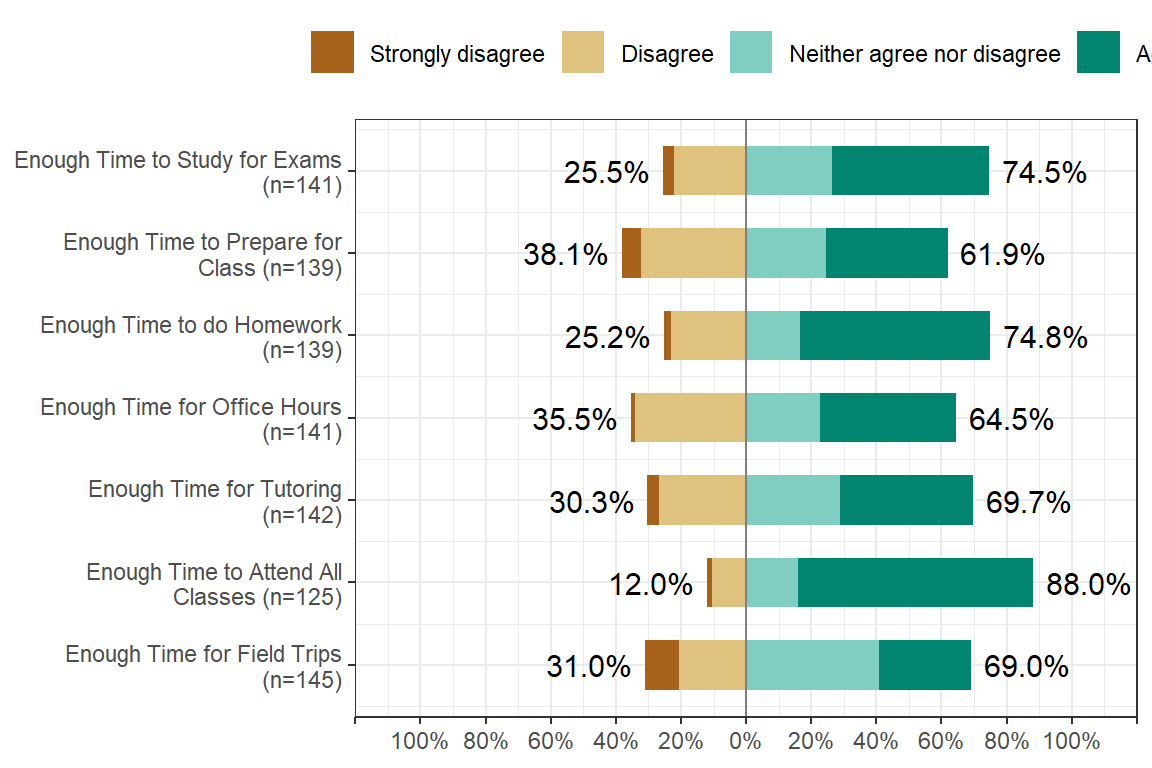
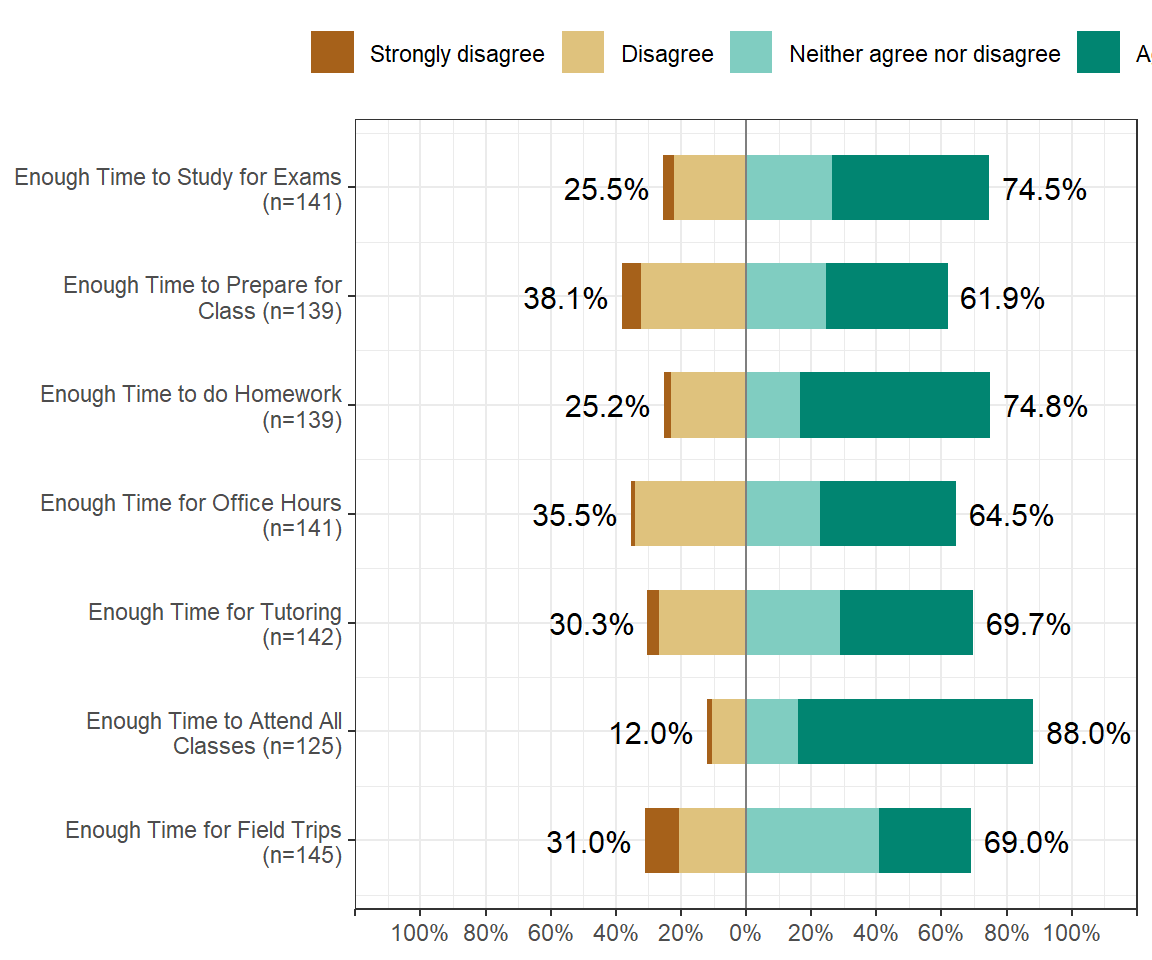
Commit

diff --git a/health.html b/health.html
@@ -327,7 +327,7 @@ div.tocify {
     <div id="navbar" class="navbar-collapse collapse">
       <ul class="nav navbar-nav">
         <li>
-  <a href="index.html">Home</a>
+  <a href="index.html">Overview</a>
 </li>
 <li>
   <a href="demographics.html">Demographics</a>
@@ -538,7 +538,7 @@ Other
 <p><img src="health_files/figure-html/unnamed-chunk-20-1.png" width="576" style="display: block; margin: auto;" /></p>
 <p>Over half of respondents, or 58%, reported that they, or the other adults in their household, cut the size of their meals, or skipped meals, because there was not enough money for food.</p>
 <ul>
-<li><strong>How often did this happen—almost every month, some months but not every month, or in only 1 or 2 months?</strong></li>
+<li><em>How often did this happen—almost every month, some months but not every month, or in only 1 or 2 months?</em></li>
 </ul>
 <p><img src="health_files/figure-html/unnamed-chunk-21-1.png" width="576" style="display: block; margin: auto;" /></p>
 <p>Of the respondents that answered yes to cutting the size of their meals, or skipping meals, over half (54.5%) said this happened some months but not every month. 27.3% reported this happened almost every month.</p>
@@ -548,7 +548,7 @@ Other
 <p><img src="health_files/figure-html/unnamed-chunk-22-1.png" width="576" style="display: block; margin: auto;" /></p>
 <p>The majority of respondents, or 61.8%, reported eating less then they felt they should over the last 12 months because there was not enough money for food.</p>
 <ul>
-<li><strong>How often did this happen—almost every month, some months but not every month, or in only 1 or 2 months?</strong></li>
+<li><em>How often did this happen—almost every month, some months but not every month, or in only 1 or 2 months?</em></li>
 </ul>
 <p><img src="health_files/figure-html/unnamed-chunk-23-1.png" width="576" style="display: block; margin: auto;" /></p>
 <p>Of those that responded yes that they ate less because there was not enough money for food, about half (50.6%) reported this happened some months but not every month. 24.7% of respondents reported this happened almost every month.</p>
@@ -558,7 +558,7 @@ Other
 <p><img src="health_files/figure-html/unnamed-chunk-24-1.png" width="576" style="display: block; margin: auto;" /></p>
 <p>Over half of respondents, or 54.5%, reported that there were times they were hungry but did not eat because there wasn’t enough money for food.</p>
 <ul>
-<li><strong>How often did this happen—almost every month, some months but not every month, or in only 1 or 2 months?</strong></li>
+<li><em>How often did this happen—almost every month, some months but not every month, or in only 1 or 2 months?</em></li>
 </ul>
 <p><img src="health_files/figure-html/unnamed-chunk-25-1.png" width="576" style="display: block; margin: auto;" /></p>
 <p>Of those that responded yes they were hungry but did not eat because lack of money for food, more than half, or 55.3%, reported this happened some months but not every month. 22.4% of respondents reported this happened almost every month.</p>
@@ -572,7 +572,7 @@ Other
 <p><img src="health_files/figure-html/unnamed-chunk-27-1.png" width="576" style="display: block; margin: auto;" /></p>
 <p>Most respondents (74.8%) reported that none of the adults in their household ever went a whole day without eating because there wasn’t enough money for food.</p>
 <ul>
-<li><strong>How often did this happen—almost every month, some months but not every month, or in only 1 or 2 months?</strong></li>
+<li><em>How often did this happen—almost every month, some months but not every month, or in only 1 or 2 months?</em></li>
 </ul>
 <p><img src="health_files/figure-html/unnamed-chunk-28-1.png" width="576" style="display: block; margin: auto;" /></p>
 <p>Out of the 34 respondents that answered yes, either they or their adult household member went a whole day without eating because there wasn’t enough money for food, over half (51.6%) reported this happened some months but not every month. 22.6% reported this happened every month.</p>
@@ -581,7 +581,7 @@ Other
 <h2>Food Insecure</h2>
 <p>Food insecurity is defined by meeting 2 or more of the following criteria:</p>
 <p>*Selecting sometimes true or often true for not having enough food or money to last and not being able to afford balanced meals.</p>
-<p>*Selecting yes for any of the 9 prior questions.</p>
+<p>*Selecting yes for any of the 5 prior bulleted, bold questions.</p>
 <p><img src="health_files/figure-html/unnamed-chunk-29-1.png" width="576" style="display: block; margin: auto;" /></p>
 <p>The majority of respondents, or 65.3%, reported that yes, they were food insecure in the last 12 months. 34.7% reported that no, they were not food insecure.</p>
 </div>

diff --git a/index.html b/index.html
@@ -256,7 +256,7 @@ $(document).ready(function () {
     <div id="navbar" class="navbar-collapse collapse">
       <ul class="nav navbar-nav">
         <li>
-  <a href="index.html">Home</a>
+  <a href="index.html">Overview</a>
 </li>
 <li>
   <a href="demographics.html">Demographics</a>
@@ -322,8 +322,10 @@ $(document).ready(function () {
 <h3>Contact</h3>
 <p>Questions about the survey or data analysis presented in this report can be directed to:</p>
 <ul>
-<li><h5 id="stephanie-bianco"><a href="https://www.csuchico.edu/chc/about/staff/stephanie-bianco.shtml">Stephanie Bianco</a></h5>
-Email: <a href="mailto:sbianco@csuchico.edu" class="email">sbianco@csuchico.edu</a></li>
+<li><h5 id="stephanie-bianco-chc-director-pi"><a href="https://www.csuchico.edu/chc/about/staff/stephanie-bianco.shtml">Stephanie Bianco</a>, CHC Director, PI</h5>
+<p>Email: <a href="mailto:sbianco@csuchico.edu" class="email">sbianco@csuchico.edu</a></p></li>
+<li><h5 id="robin-donatello-data-manager"><a href="https://norcalbiostat.netlify.app/">Robin Donatello</a>, Data Manager</h5>
+<p>Email: <a href="mailto:rdonatello@csuchico.edu" class="email">rdonatello@csuchico.edu</a></p></li>
 </ul>
 <hr />
 </div>

diff --git a/workload.html b/workload.html
@@ -256,7 +256,7 @@ $(document).ready(function () {
     <div id="navbar" class="navbar-collapse collapse">
       <ul class="nav navbar-nav">
         <li>
-  <a href="index.html">Home</a>
+  <a href="index.html">Overview</a>
 </li>
 <li>
   <a href="demographics.html">Demographics</a>
@@ -308,7 +308,7 @@ $(document).ready(function () {
 <div id="time-management-and-performance" class="section level1">
 <h1>Time Management and Performance</h1>
 <p><strong>For each of the following statements, indicate how strongly you agree or disagree about your confidence in academic performance.</strong></p>
-<p><img src="workload_files/figure-html/unnamed-chunk-2-1.png" width="768" style="display: block; margin: auto;" /></p>
+<p><img src="workload_files/figure-html/unnamed-chunk-2-1.png" width="528" style="display: block; margin: auto;" /></p>
 <p><strong>For each of the following statements, indicate how strongly you agree or disagree about the time you have available for these academic activities.</strong></p>
 <p><img src="workload_files/figure-html/unnamed-chunk-3-1.png" width="576" style="display: block; margin: auto;" /></p>
 </div>

diff --git a/academics.html b/academics.html
@@ -327,7 +327,7 @@ div.tocify {
     <div id="navbar" class="navbar-collapse collapse">
       <ul class="nav navbar-nav">
         <li>
-  <a href="index.html">Home</a>
+  <a href="index.html">Overview</a>
 </li>
 <li>
   <a href="demographics.html">Demographics</a>

diff --git a/cfo_participation.html b/cfo_participation.html
@@ -327,7 +327,7 @@ div.tocify {
     <div id="navbar" class="navbar-collapse collapse">
       <ul class="nav navbar-nav">
         <li>
-  <a href="index.html">Home</a>
+  <a href="index.html">Overview</a>
 </li>
 <li>
   <a href="demographics.html">Demographics</a>

diff --git a/demographics.html b/demographics.html
@@ -327,7 +327,7 @@ div.tocify {
     <div id="navbar" class="navbar-collapse collapse">
       <ul class="nav navbar-nav">
         <li>
-  <a href="index.html">Home</a>
+  <a href="index.html">Overview</a>
 </li>
 <li>
   <a href="demographics.html">Demographics</a>

diff --git a/employment.html b/employment.html
@@ -327,7 +327,7 @@ div.tocify {
     <div id="navbar" class="navbar-collapse collapse">
       <ul class="nav navbar-nav">
         <li>
-  <a href="index.html">Home</a>
+  <a href="index.html">Overview</a>
 </li>
 <li>
   <a href="demographics.html">Demographics</a>

diff --git a/pantry.html b/pantry.html
@@ -327,7 +327,7 @@ div.tocify {
     <div id="navbar" class="navbar-collapse collapse">
       <ul class="nav navbar-nav">
         <li>
-  <a href="index.html">Home</a>
+  <a href="index.html">Overview</a>
 </li>
 <li>
   <a href="demographics.html">Demographics</a>
